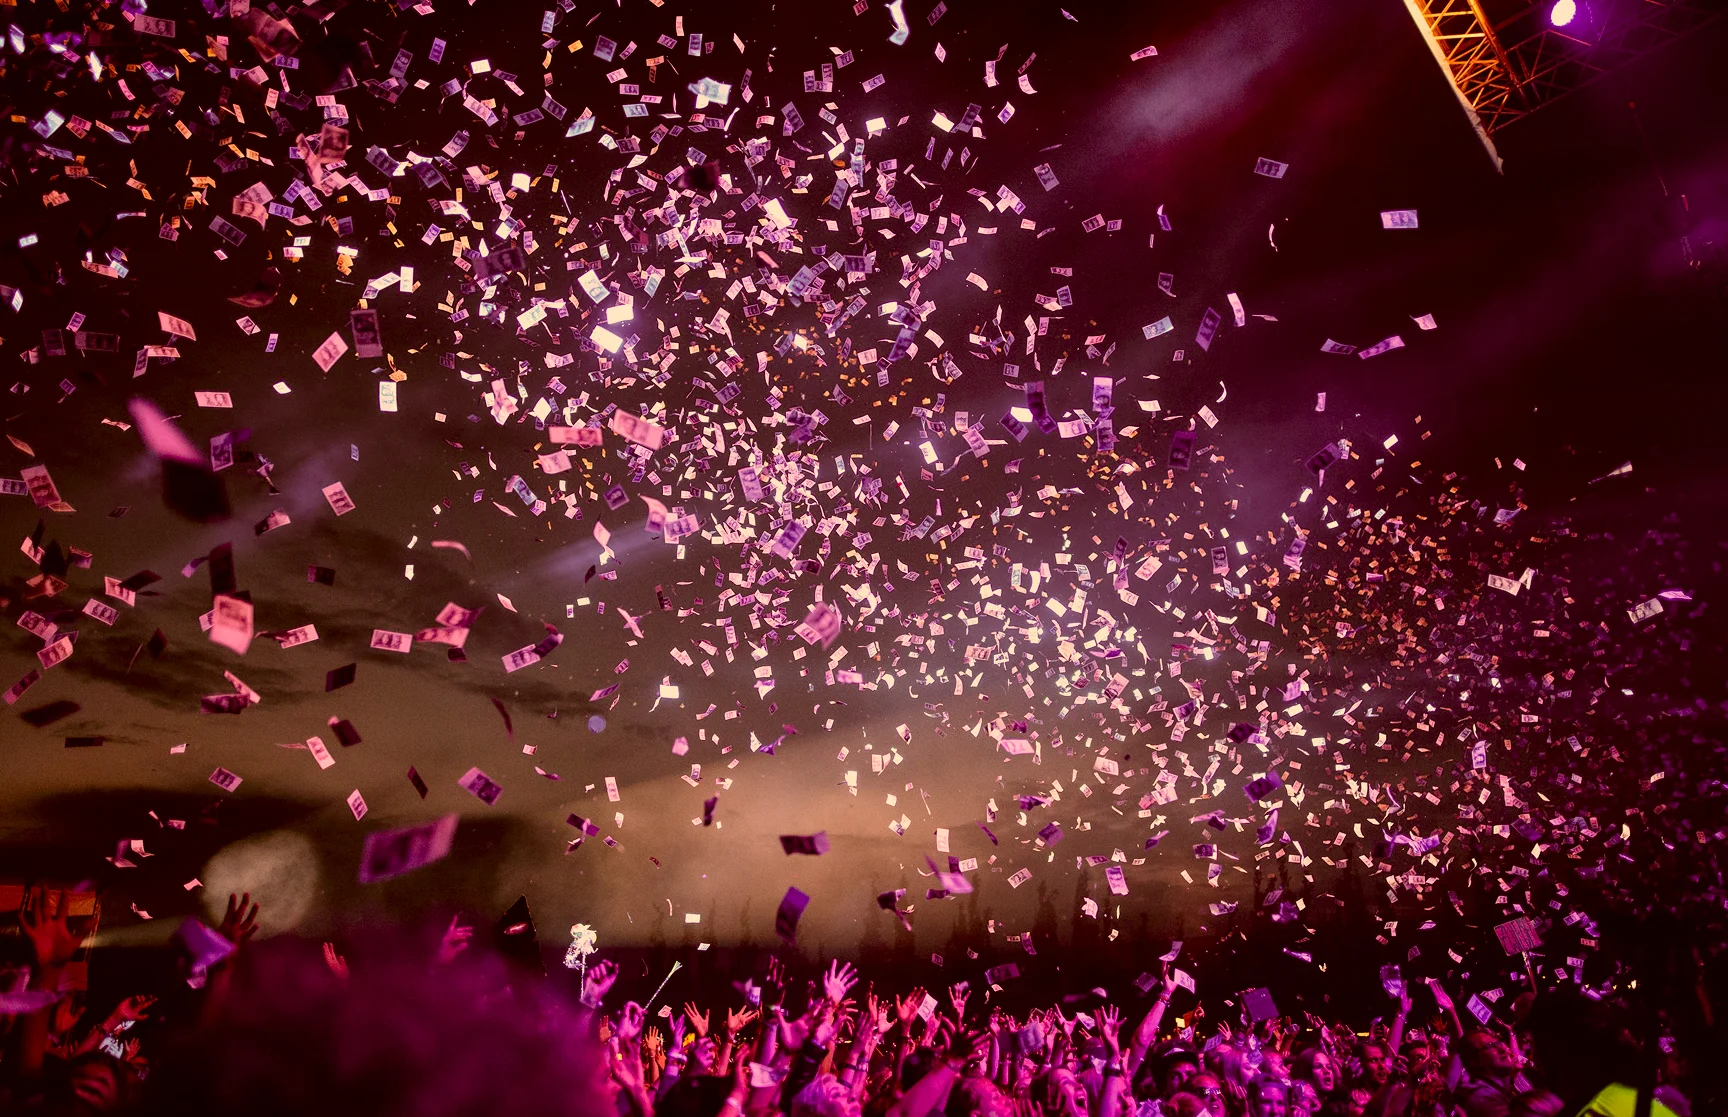
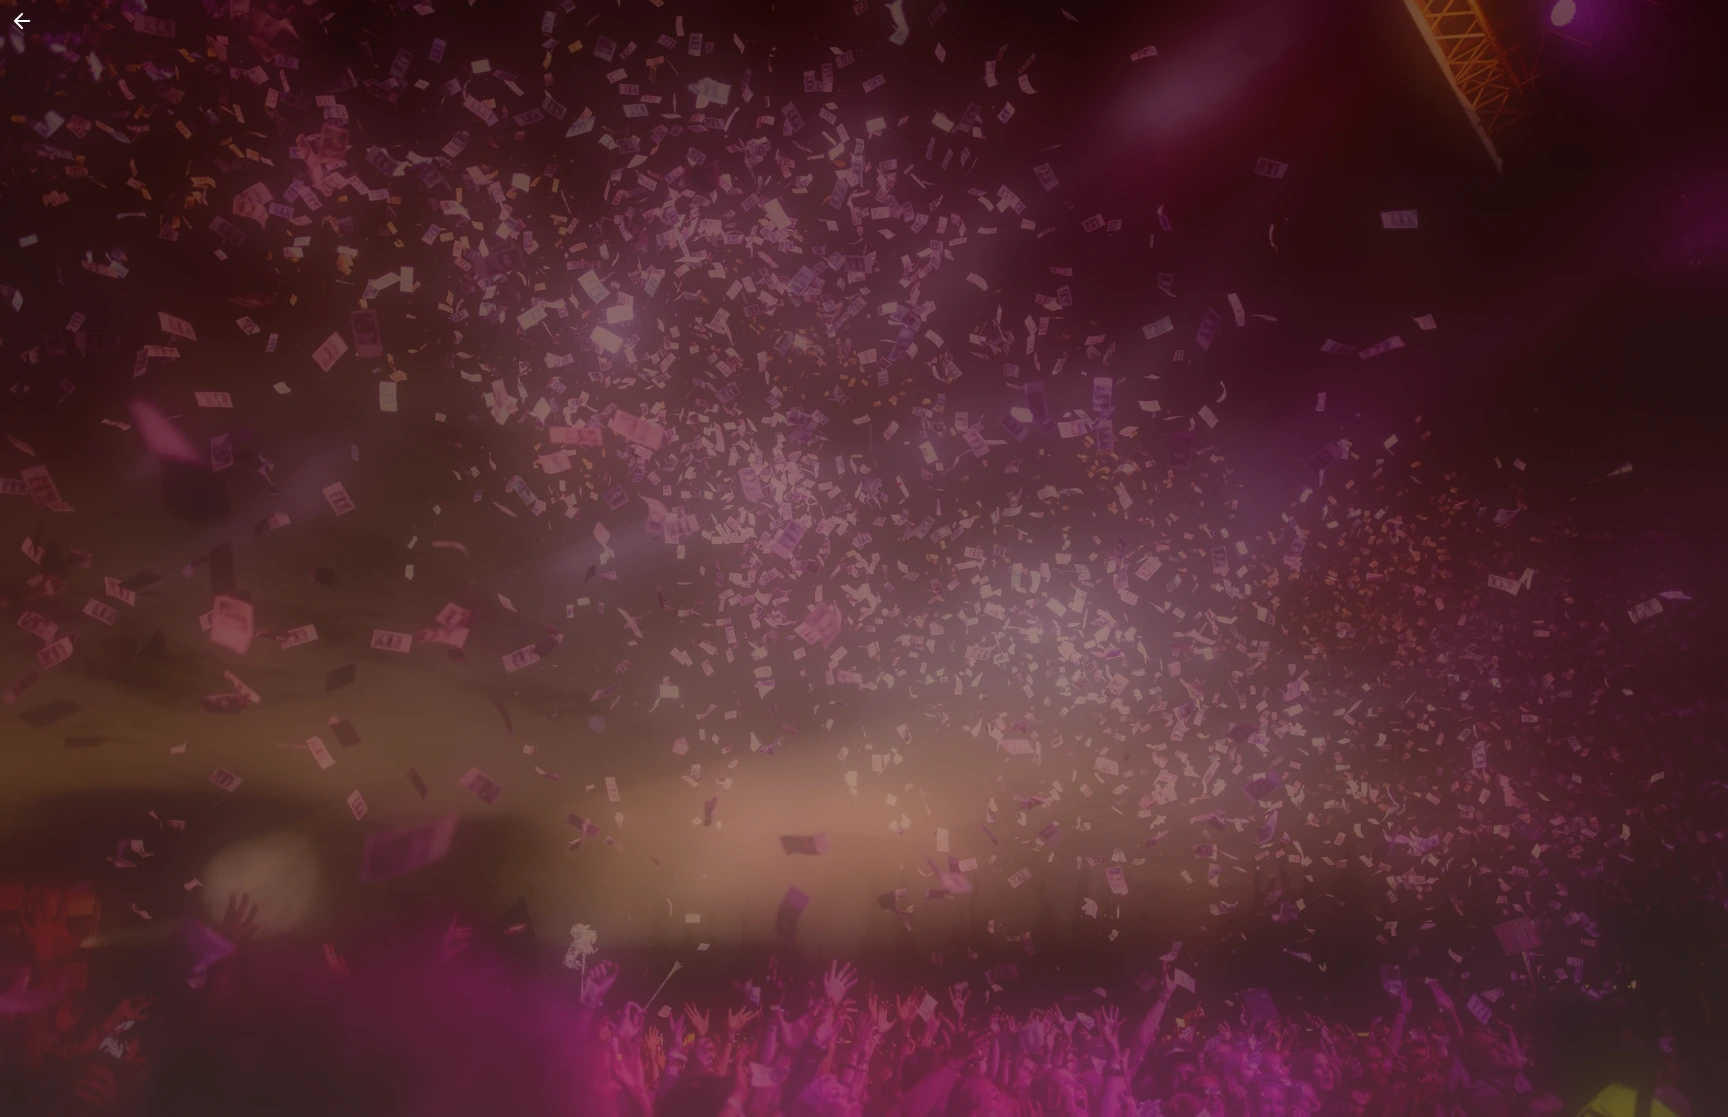
RegisterUser Finished

diff --git a/client/app/auth/register.tsx b/client/app/auth/register.tsx
@@ -1,10 +1,15 @@
-import { StyleSheet, View, Text, ImageBackground, TouchableOpacity, TextInput } from 'react-native';
+import { StyleSheet, View, Text, ImageBackground, Image, TouchableOpacity, TextInput } from 'react-native';
 import React from "react";
+import { useRouter } from "expo-router";
+import BackArrow from "@/components/BackArrow";
 
 export default function Register() {
+  const router = useRouter(); 
+
   return (
     <View style={styles.container}>
       <View style={styles.leftContainer}>
+        <BackArrow onPress={() => router.back()} />
         <Text style={styles.title}>LogiEvents</Text>
         <Text style={styles.subtitle}>Creemos experiencias juntos</Text>
 
@@ -66,17 +71,51 @@ export default function Register() {
           </View>
         </View>
 
+        <Text style={styles.termsText}>
+          Al registrarse acepta nuestros <Text style={styles.boldUnderline}>Términos de uso</Text> y <Text style={styles.boldUnderline}>Políticas de privacidad</Text>.
+        </Text>
+
         <TouchableOpacity style={styles.button}>
           <Text style={styles.buttonText}>Continuar</Text>
         </TouchableOpacity>
-      </View>
 
+        <View style={styles.linkContainer}>
+          <Text style={styles.linkText}>
+            Ya tienes cuenta?{' '}
+            <Text
+              style={styles.boldUnderline}
+              onPress={() => router.push('/auth/login')} 
+            >
+              Click aquí
+            </Text>
+          </Text>
+        </View>
+      </View>
+      
       <View style={styles.rightContainer}>
         <ImageBackground
           source={require('@/assets/images/fondo_register.webp')}
           style={styles.image}
           resizeMode="cover"
-        />
+        >
+          <View style={styles.rightContent}>
+            <Text style={styles.rightTitle}>LogiEvents</Text>
+            <Text style={styles.rightSubtitle}>Juntamos experiencias</Text>
+            <Text style={styles.rightSubtitle}>De los mejores eventos</Text>
+            <Image
+              source={require('@/assets/images/fondo_user.png')}
+              style={styles.rightImage}
+              resizeMode="contain"
+            />
+            <Text style={styles.organizerTitle}>¿Organizador?</Text>
+            <TouchableOpacity
+              style={styles.organizerButton}
+              onPress={() => router.push('/auth/login')} 
+            >
+              <Text style={styles.organizerButtonText}>Ir ahora</Text>
+            </TouchableOpacity>
+          </View>
+        </ImageBackground>
       </View>
     </View>
   );
@@ -87,40 +126,94 @@ const styles = StyleSheet.create({
     flex: 1,
     flexDirection: 'row', 
   },
+  
   leftContainer: {
     flex: 1, 
     backgroundColor: '#151D20', 
     justifyContent: 'flex-start', 
     alignItems: 'center', 
-    paddingTop: 50, 
+    paddingTop: 15, 
   },
+  
   rightContainer: {
-    flex: 1, 
+    flex: 1,
   },
+  
   image: {
     width: '100%',
     height: '100%',
+    justifyContent: 'center', 
+    alignItems: 'center', 
   },
+  
+  rightContent: {
+    alignItems: 'center', 
+  },
+  
+  rightTitle: {
+    color: 'white',
+    fontSize: 36, 
+    fontWeight: 'bold',
+    marginBottom: 10, 
+  },
+  
+  rightSubtitle: {
+    color: 'white',
+    fontSize: 16, 
+    textAlign: 'center',
+    marginBottom: 5, 
+  },
+
+  rightImage: {
+    width: 150, 
+    height: 150, 
+    marginTop: 10, 
+  },
+
+  organizerTitle: {
+    color: 'white',
+    fontSize: 20, 
+    fontWeight: 'bold',
+    marginTop: 20, 
+    marginBottom: 10, 
+  },
+
+  organizerButton: {
+    backgroundColor: 'white',
+    paddingVertical: 10,
+    paddingHorizontal: 30,
+    borderRadius: 20,
+  },
+
+  organizerButtonText: {
+    color: 'black',
+    fontSize: 16,
+    fontWeight: 'bold',
+  },
+  
   title: {
     color: 'white',
     fontSize: 40,
     fontWeight: 'bold',
-    marginBottom: 8,
+    marginBottom: 0,
   },
+  
   subtitle: {
     color: 'white',
     fontSize: 16,
     textAlign: 'center',
     marginBottom: 25,
   },
+  
   label: {
     color: 'white',
     fontSize: 16,
     textAlign: 'left',
     alignSelf: 'flex-start', 
     marginLeft: '10%', 
-    marginBottom: 8,
+    marginBottom: 4,
   },
+  
   label2: {
     color: 'white',
     fontSize: 16,
@@ -129,6 +222,7 @@ const styles = StyleSheet.create({
     marginLeft: '1%',
     marginBottom: 8,
   },
+  
   label3: {
     color: 'white',
     fontSize: 16,
@@ -137,22 +231,14 @@ const styles = StyleSheet.create({
     marginLeft: '1%',
     marginBottom: 8,
   },
-
+  
   label4: {
     color: 'white',
     fontSize: 16,
     textAlign: 'left',
     alignSelf: 'flex-start',
     marginLeft: '1%',
-    marginBottom: 8,
-  },
-  label5: {
-    color: 'white',
-    fontSize: 16,
-    textAlign: 'left',
-    alignSelf: 'flex-start',
-    marginLeft: '1%',
-    marginBottom: 8,
+    marginBottom: 10,
   },
   
   input: {
@@ -163,18 +249,21 @@ const styles = StyleSheet.create({
     paddingHorizontal: 10,
     fontSize: 14, 
     color: 'black', 
-    marginBottom: 16, 
+    marginBottom: 5, 
   },
+  
   row: {
     flexDirection: 'row', 
     justifyContent: 'space-between', 
     width: '80%', 
-    marginBottom: 16, 
+    marginBottom: 6, 
   },
+  
   column: {
     flex: 1, 
     marginHorizontal: 5, 
   },
+  
   inputSmall: {
     width: '100%', 
     height: 40,
@@ -183,8 +272,9 @@ const styles = StyleSheet.create({
     paddingHorizontal: 10,
     fontSize: 14,
     color: 'black',
-    marginBottom: 16,
+    marginBottom: 6,
   },
+  
   button: {
     backgroundColor: 'white',
     paddingVertical: 8,
@@ -192,9 +282,37 @@ const styles = StyleSheet.create({
     borderRadius: 20,
     marginTop: 20,
   },
+  
   buttonText: {
     color: 'black',
     fontSize: 16,
     fontWeight: 'bold',
+  },
+  
+  termsText: {
+    color: 'white',
+    fontSize: 12,
+    textAlign: 'center',
+    marginTop: 20,
+    marginBottom: 20,
+    width: '80%',
+  },
+  
+  boldUnderline: {
+    fontWeight: 'bold',
+    textDecorationLine: 'underline',
+  },
+  
+  linkContainer: {
+    marginTop: 10, 
+    alignItems: 'center', 
+    width: '100%',
+  },
+  
+  linkText: {
+    color: 'white',
+    fontSize: 12,
+    textAlign: 'center',
+    textDecorationLine: 'underline', 
   },
 });

diff --git a/client/components/BackArrow.tsx b/client/components/BackArrow.tsx
@@ -1,0 +1,30 @@
+import React, { useEffect } from 'react';
+import { Platform, TouchableOpacity, StyleSheet } from 'react-native';
+import { Ionicons } from '@expo/vector-icons';
+
+
+const BackArrow = ({ onPress }: { onPress: () => void }) => {
+  useEffect(() => {
+    // Only run in web environment
+    if (Platform.OS === 'web') {
+      console.log('BackArrow component loaded for web');
+    }
+  }, []);
+
+  return (
+    <TouchableOpacity style={styles.container} onPress={onPress}>
+      <Ionicons name="arrow-back" size={19} color="#fff" />
+    </TouchableOpacity>
+  );
+};
+
+const styles = StyleSheet.create({
+  container: {
+    position: 'absolute', // Posiciona la flecha de forma independiente
+    top: 10,              // Ajusta la altura desde la parte superior
+    left: 20,             // Ajusta la posición horizontal
+    padding: 8,
+  },
+});
+
+export default BackArrow;
